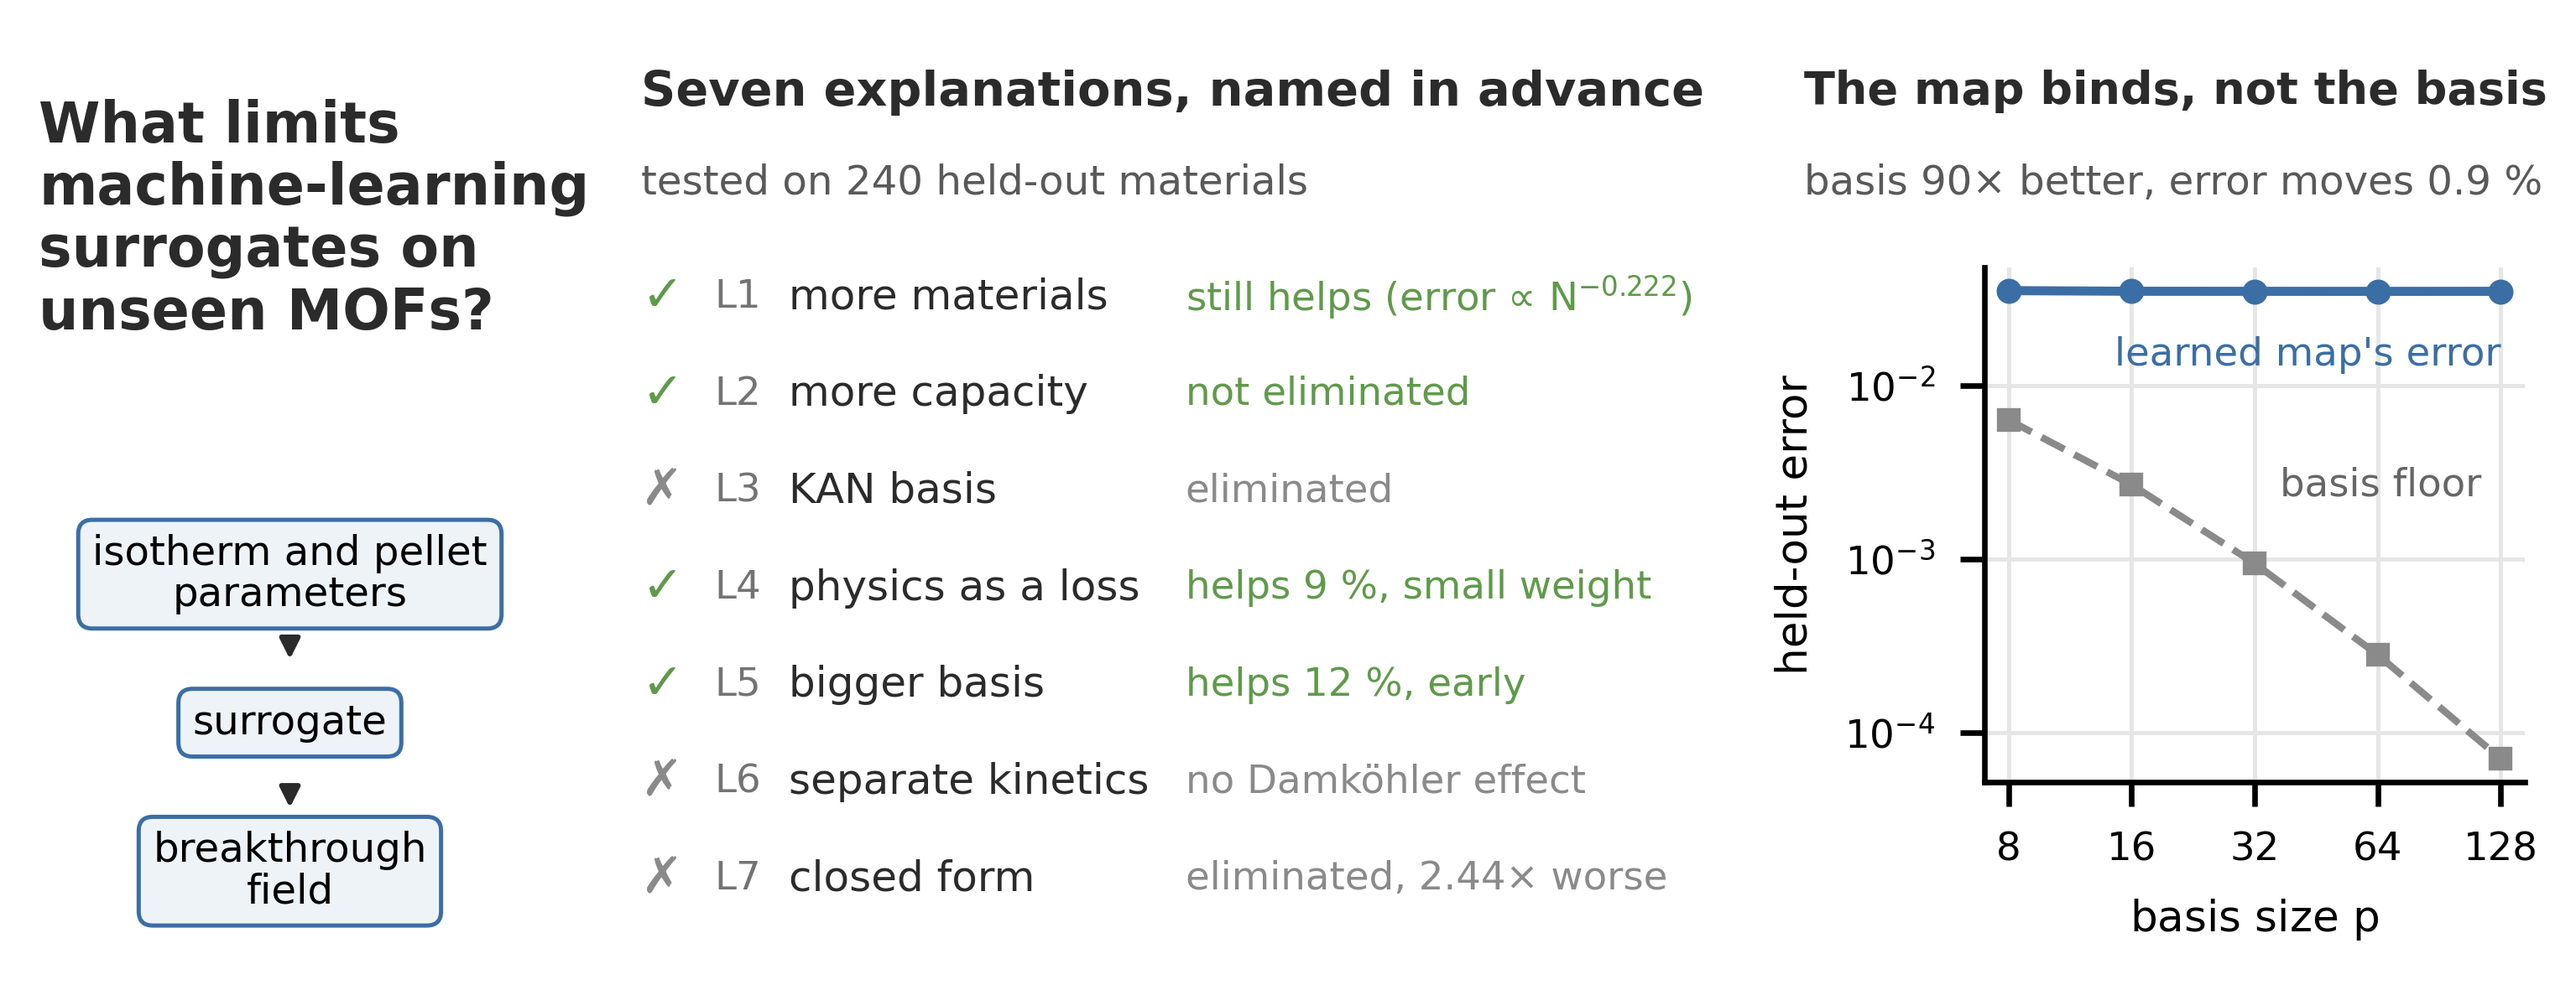
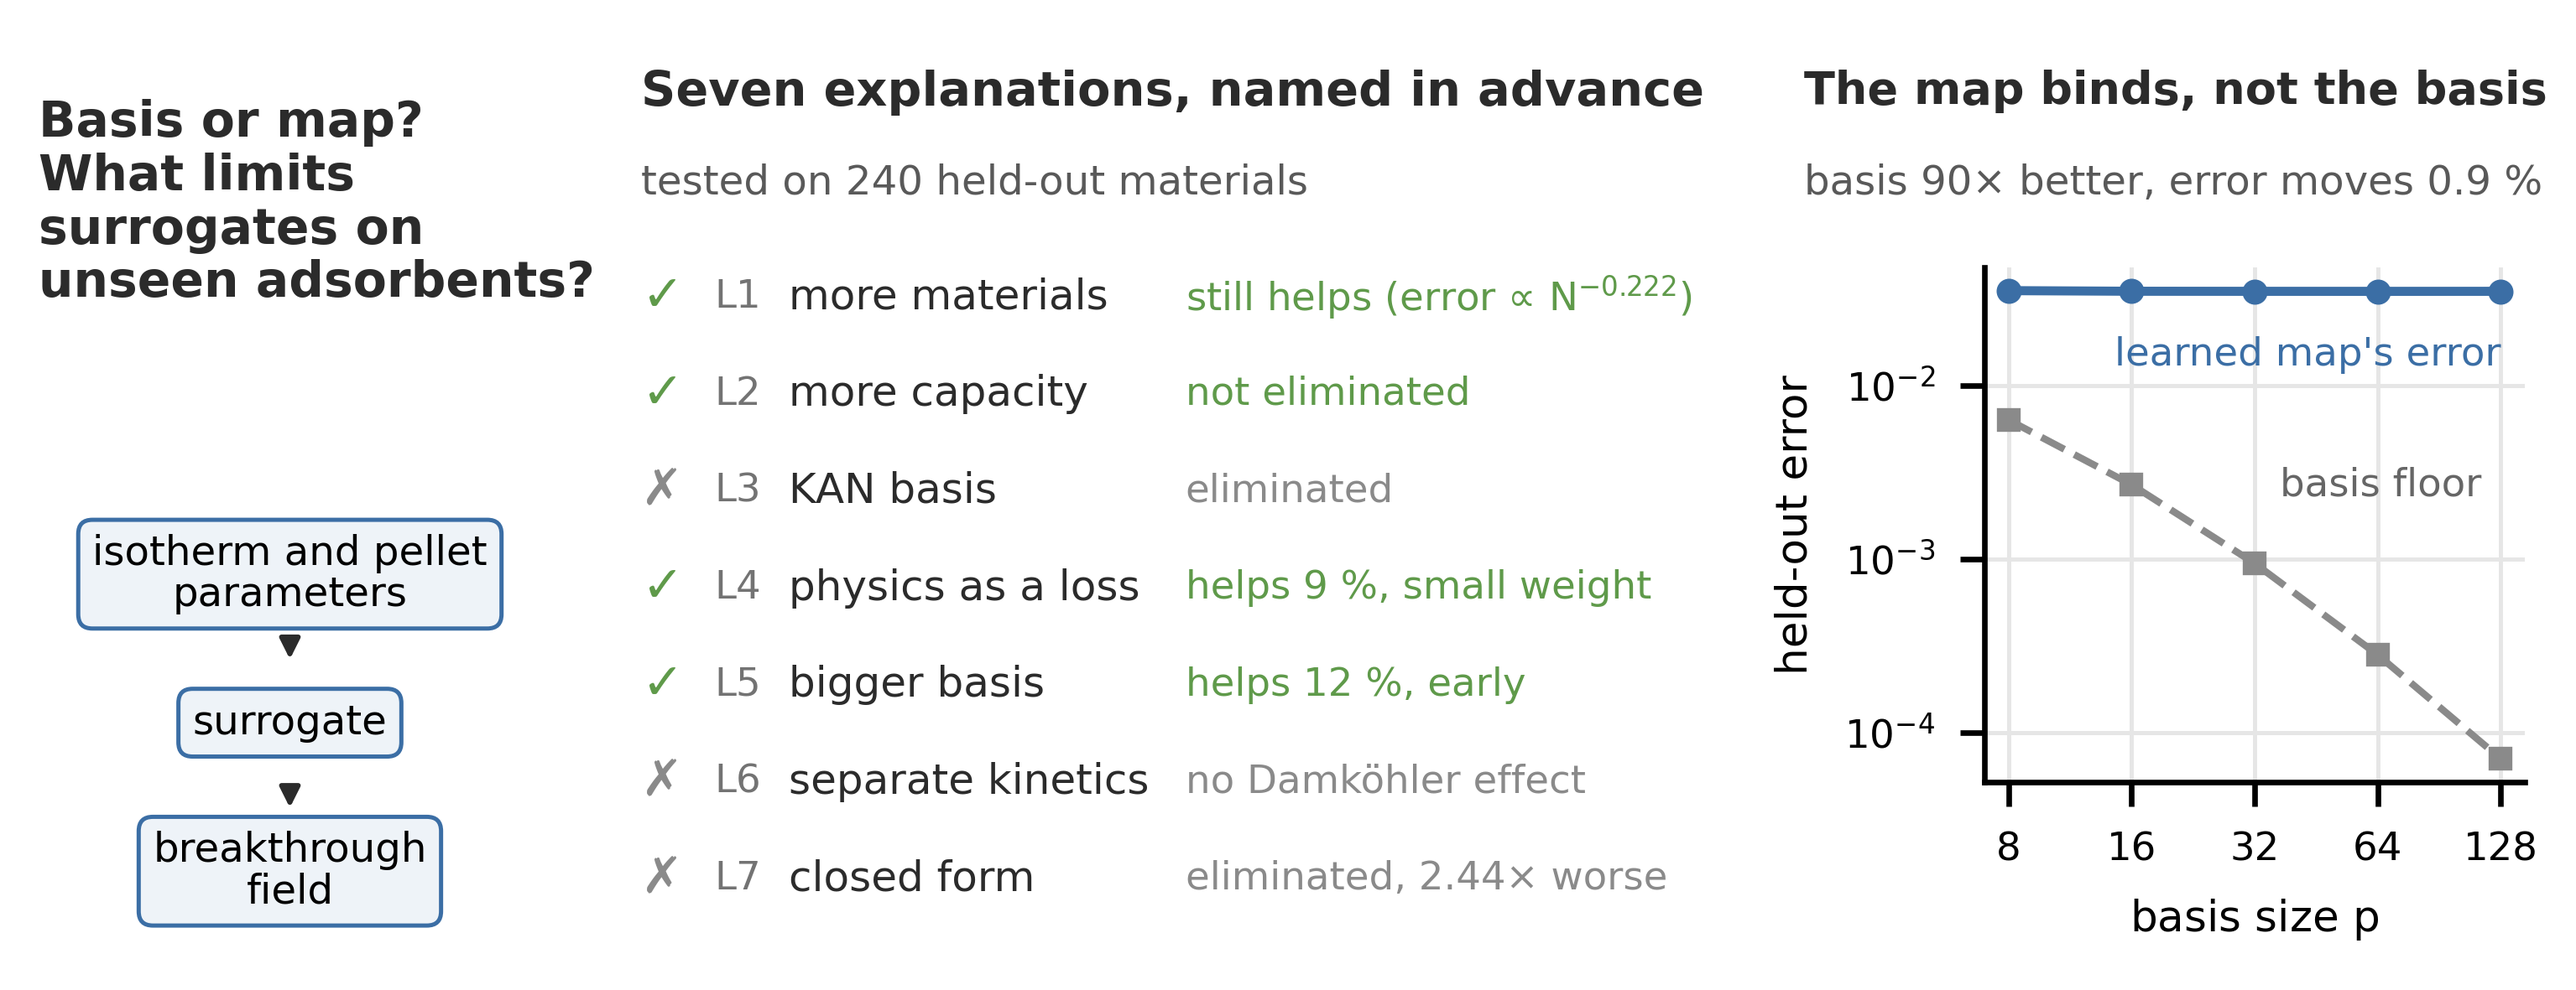
New title carried to the citation file, README and Paper 2's reference; highlights lead with the basis-versus-map result; graphical abstract headline matches the title

Changed region(s): [[0.0, 0.0914, 0.2476, 0.3353]]

diff --git a/paper2/stage1.tex b/paper2/stage1.tex
@@ -1044,7 +1044,7 @@ publication.
 
 \bibitem{bortz2023} David M. Bortz, Daniel A. Messenger, Vanja Dukic, Direct Estimation of Parameters in ODE Models Using WENDy: Weak-form Estimation of Nonlinear Dynamics, arXiv preprint arXiv:2302.13271 (2023). \href{https://arxiv.org/abs/2302.13271}{arXiv:2302.13271}.
 
-\bibitem{paper1} A.~Batayhi, What limits machine-learning surrogates on unseen adsorbents? A pre-registered falsification study of metal--organic framework water-adsorption columns, companion manuscript (2026).
+\bibitem{paper1} A.~Batayhi, Basis or map? A pre-registered decomposition of the error of reduced-order and neural-operator surrogates of non-isothermal adsorption columns on unseen adsorbents, companion manuscript (2026).
 
 \bibitem{liu2024} Ziming Liu, Yixuan Wang, Sachin Vaidya, Fabian Ruehle, James Halverson, Marin Solja\v{c}i\'c, Thomas Y. Hou, Max Tegmark, KAN: Kolmogorov-Arnold Networks, ICLR 2025 (arXiv 2024). \href{https://arxiv.org/abs/2404.19756}{arXiv:2404.19756}.
 

diff --git a/make_submission.py b/make_submission.py
@@ -29,11 +29,11 @@ N = json.load(open(os.path.join(ROOT, "paper", "numbers.json"), encoding="utf-8"
 
 # The highlights, with every number taken from the results (numbers.json).
 HIGHLIGHTS = [
-    "Seven explanations for surrogate error, tested against pre-registered criteria",
-    "A solver checked against closed forms and, unfitted, against a MOF-303 bed",
-    "Beyond a few modes the parameter-to-field map binds the error, not the basis",
+    "A diagnostic separates basis error from map error in parametric surrogates",
+    "Beyond a few modes the parameter-to-coefficient map binds the error, not the basis",
+    "Seven explanations tested against pre-registered, selection-corrected criteria",
+    f"A small physics-residual weight cuts held-out error {N['LfourbMatGainPct']} %; larger weights hurt",
     f"A coarse solve beats the perceptron surrogates below {N['CoarseBreakEven']} queries",
-    "Every number comes from a script; every correction is in a public ledger",
 ]
 
 

diff --git a/fig_graphical_abstract.py b/fig_graphical_abstract.py
@@ -45,8 +45,8 @@ def main():
 
     # ---- left: the question
     q = fig.add_axes([0.0, 0.0, 0.25, 1.0]); q.axis("off")
-    q.text(0.06, 0.90, "What limits\nmachine-learning\nsurrogates on\nunseen MOFs?",
-           fontsize=8.0, fontweight="bold", va="top", color=fs.C["dark"], linespacing=1.15)
+    q.text(0.06, 0.90, "Basis or map?\nWhat limits\nsurrogates on\nunseen adsorbents?",
+           fontsize=7.0, fontweight="bold", va="top", color=fs.C["dark"], linespacing=1.15)
     steps = ["isotherm and pellet\nparameters", "surrogate", "breakthrough\nfield"]
     ys = [0.42, 0.27, 0.12]
     for y, s in zip(ys, steps):

diff --git a/README.md b/README.md
@@ -1,12 +1,12 @@
-# What limits machine-learning surrogates on unseen adsorbents?
+# Basis or map? What limits reduced-order and neural-operator surrogates on unseen adsorbents
 
 [![DOI](https://zenodo.org/badge/DOI/10.5281/zenodo.23302587.svg)](https://doi.org/10.5281/zenodo.23302587)
 
 Archived release: Zenodo, doi:[10.5281/zenodo.23302587](https://doi.org/10.5281/zenodo.23302587) (v1.0-preprint). The concept DOI [10.5281/zenodo.23302586](https://doi.org/10.5281/zenodo.23302586) always resolves to the latest version.
 
-A pre-registered falsification study of metal–organic framework water-adsorption
-columns (Paper 1), and the pre-registration of Paper 2 (when can AI discover adsorption
-kinetics?).
+Paper 1: *Basis or map? A pre-registered decomposition of the error of reduced-order and neural-operator surrogates of non-isothermal adsorption columns on unseen adsorbents* (prepared for Computer Methods in Applied Mechanics
+and Engineering). Paper 2: the pre-registration of a Registered Report, *when can AI
+discover adsorption kinetics?*
 
 Surrogates of adsorption columns are usually judged by how well they fit. This project
 asks a different question: **when a surrogate must predict an adsorbent it has never
